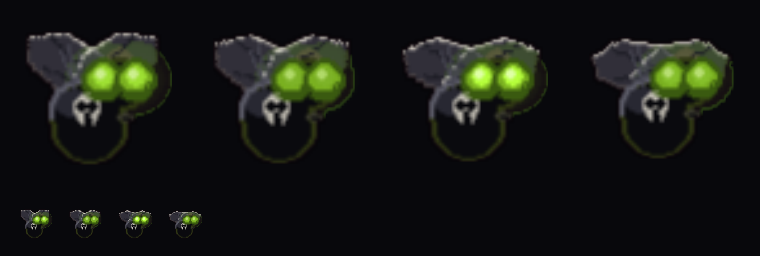
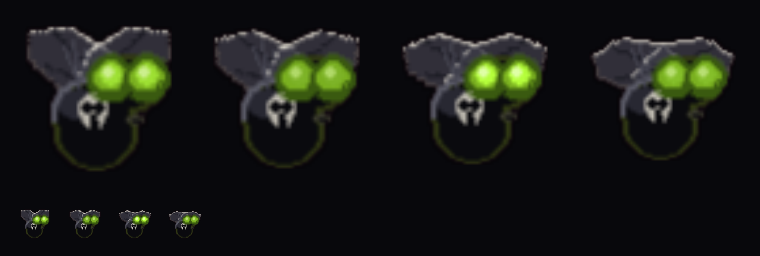
fly design_4 R2: MORTIMER — rim-light barrel, dim skull, lift wing fill
Claude-Session: https://claude.ai/code/session_01K6KPJsdtoYoDR2za2Jqnmo

diff --git a/tools/fly_candidates/design_4.py b/tools/fly_candidates/design_4.py
@@ -83,10 +83,12 @@ _EYE_PULSE = {50: 0.82, 20: 0.55, -10: 1.00, -40: 0.62}
 
 
 def _eye_bloom(surf, cx, cy, r, strength):
-    """Soft additive green halo so the eyes glow against the night sky."""
+    """Soft additive green halo so the eyes glow against the night sky. The
+    falloff is kept tight and steep so the house silhouette outline (alpha>8)
+    hugs the lens instead of tracing a stray fringe-ring out past the body."""
     g = pygame.Surface((r * 2, r * 2), pygame.SRCALPHA)
     for rad in range(r, 0, -1):
-        a = int(strength * 60 * (1.0 - rad / r))
+        a = int(strength * 44 * (1.0 - rad / r) ** 1.6)
         if a > 0:
             pygame.draw.circle(g, (120, 200, 40, a), (r, r), rad)
     surf.blit(g, (cx - r, cy - r), special_flags=pygame.BLEND_RGBA_ADD)
@@ -135,7 +137,7 @@ def build_mortimer_deathfly(wing_angle_deg):
 
     # Eyes: hero glow first so lids/facets sit crisply on top of the bloom.
     for ex in (38, 50):
-        _eye_bloom(surf, ex, 31, 15, strength)
+        _eye_bloom(surf, ex, 31, 11, strength)
 
     # Wings spread behind the barrel for a menacing, moth-like span.
     _rot_blit(surf, _death_wing(20 + spread, -1), (28, 27))
